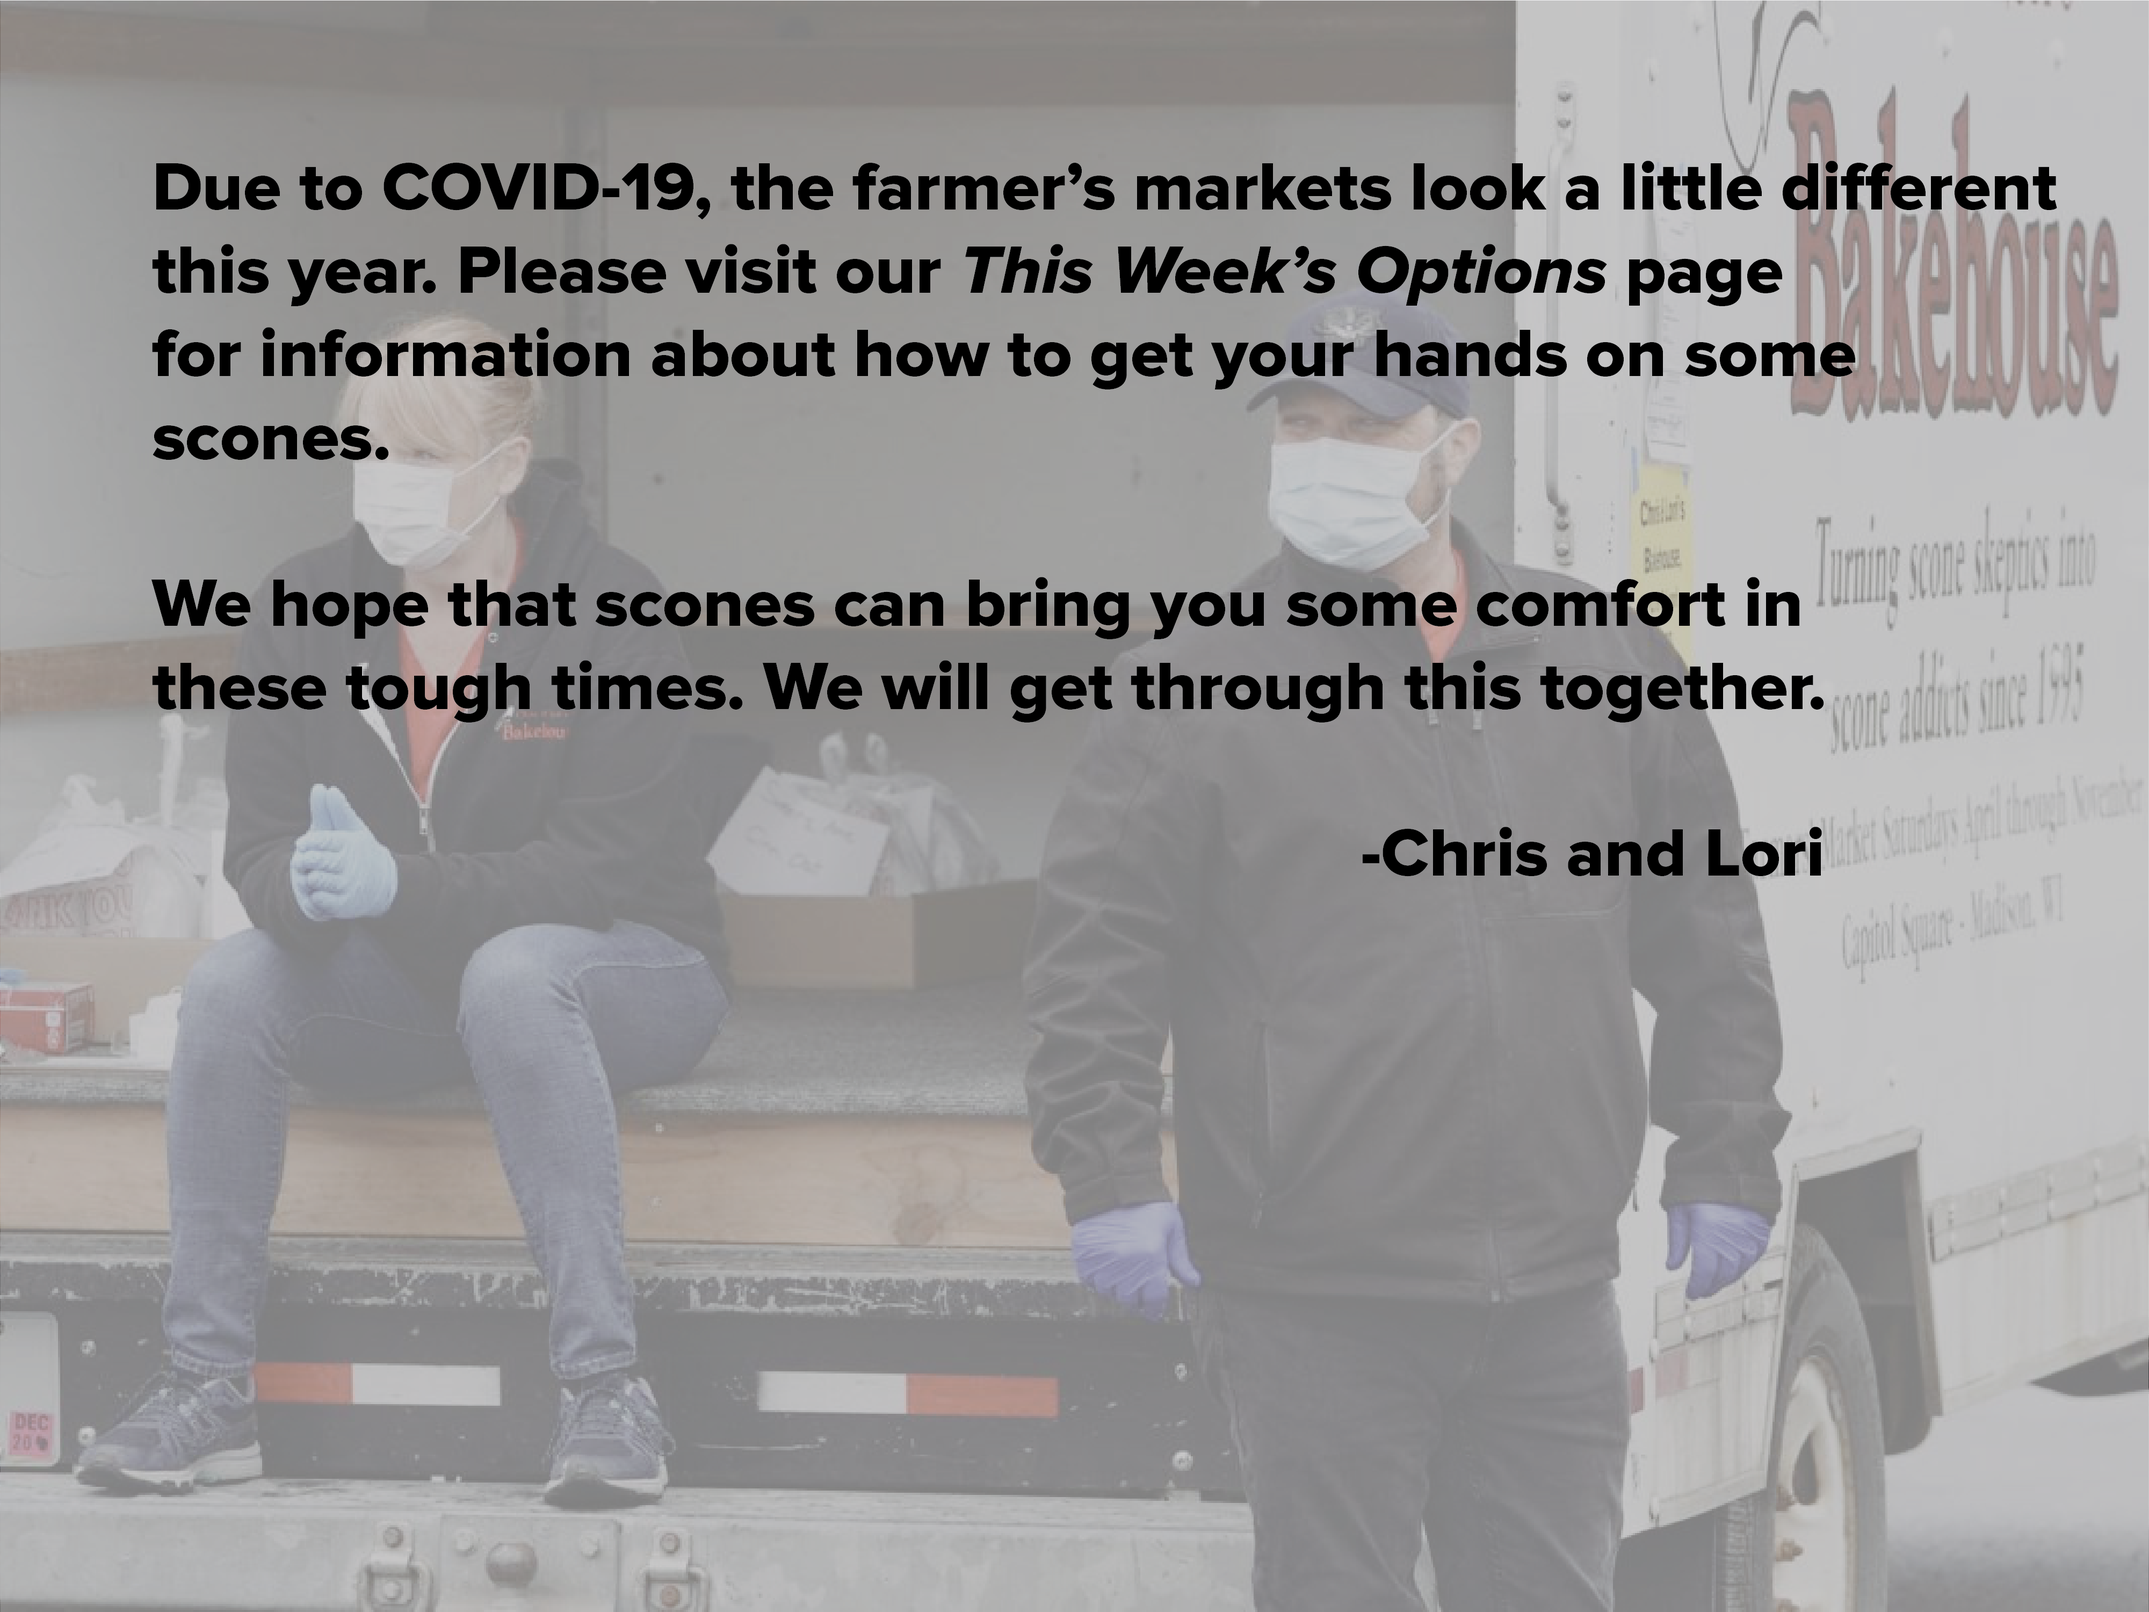
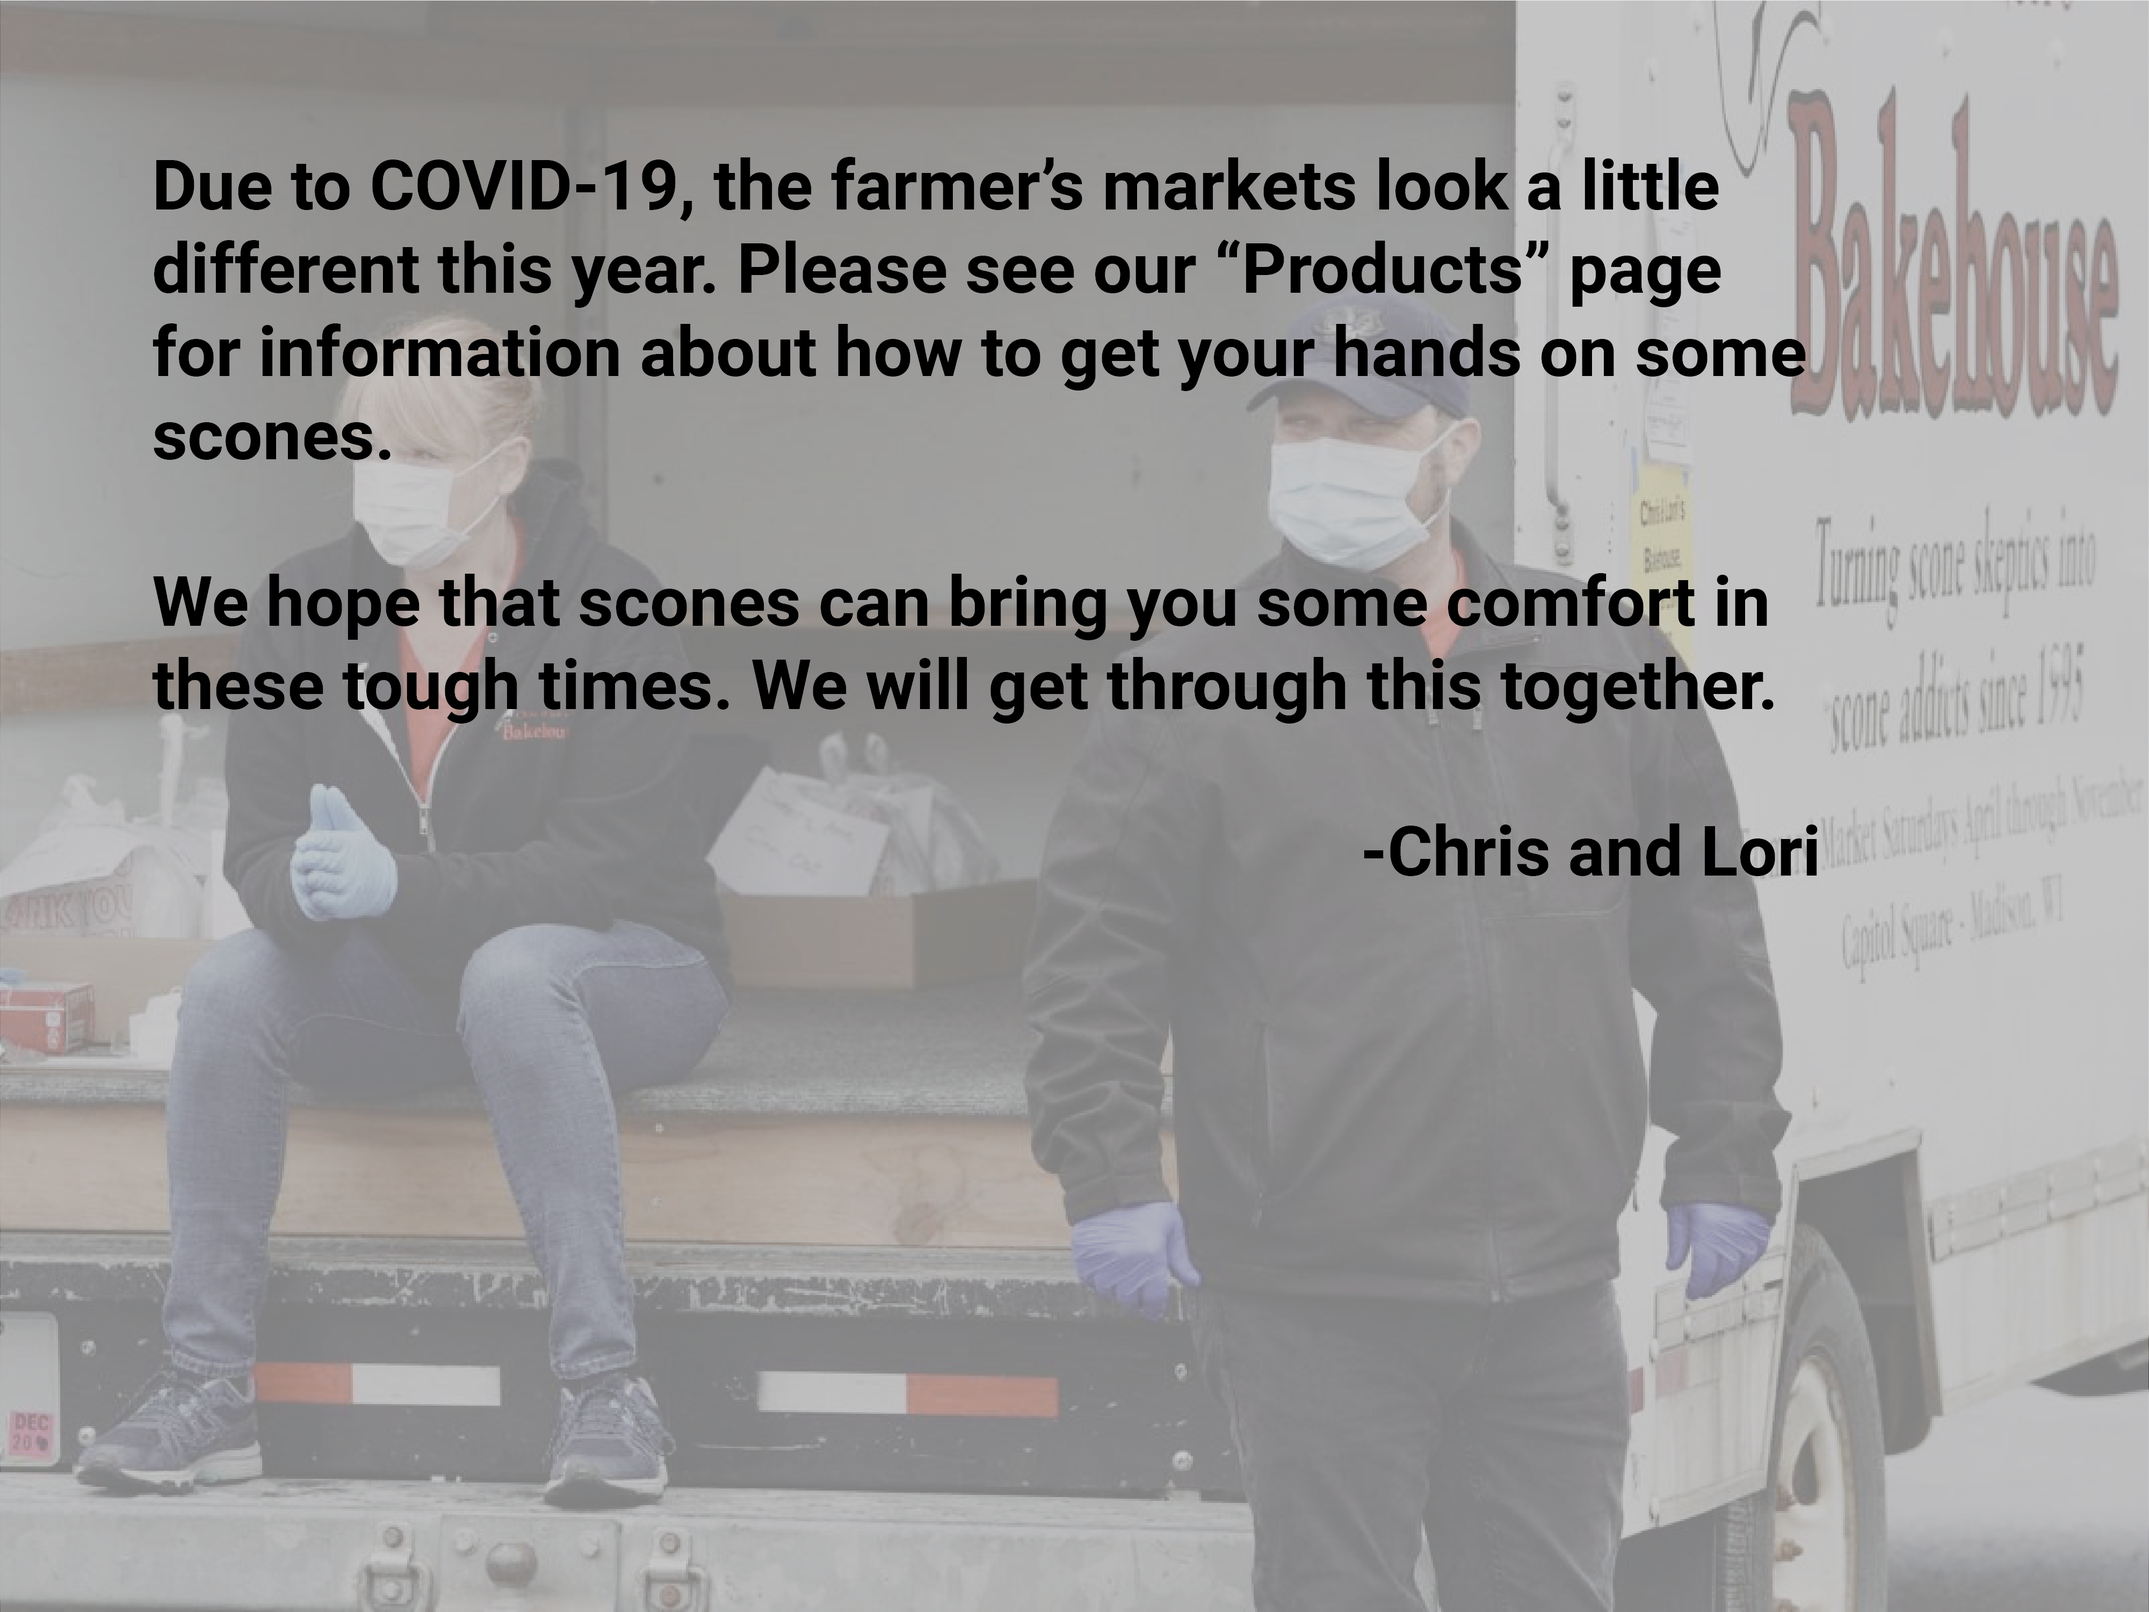
Remove "this week's options" page and switch all info to "Products" page

diff --git a/products.html b/products.html
@@ -3,9 +3,15 @@
   <head>
     <meta charset="utf-8">
     <meta name="viewport" content="width=device-width, initial-scale=1, shrink-to-fit=no">
-    <meta name="description" content="">
+    <meta name="description" content="Offering comfort in the form of scones and cookies.">
     <meta name="author" content="">
-    <link rel="icon" href="./assets/icon/hat.png">
+    <meta property="og:title" content="Chris & Lori's Bakehouse: Products">
+    <meta property="og:image" content="../assets/img/semicranberry.jpg">
+    <meta property="image" content="../assets/img/semicranberry.jpg">
+    <meta property="og:description" content="Offering comfort in the form of scones and cookies.">
+<!--     <meta property="og:url" content="https://example.com/page.html"> -->
+    <meta name="twitter:card" content="../assets/img/semicranberry.jpg">
+    <link rel="icon" href="../assets/img/semicranberry.jpg">
     <title>Chris & Lori's Bakehouse</title>
     <link rel="stylesheet" href="https://maxcdn.bootstrapcdn.com/bootstrap/4.0.0-alpha.6/css/bootstrap.min.css" integrity="sha384-rwoIResjU2yc3z8GV/NPeZWAv56rSmLldC3R/AZzGRnGxQQKnKkoFVhFQhNUwEyJ" crossorigin="anonymous">
     <link href="https://fonts.googleapis.com/css?family=Architects+Daughter|Caveat|Kalam:300|Quicksand|Permanent+Marker" rel="stylesheet">
@@ -18,6 +24,87 @@
 
 <style>
 * {box-sizing: border-box;}
+
+
+table { 
+  width: 100%; 
+  border-collapse: collapse; 
+  color: #781e27;
+  font-family:  'Quicksand', sans-serif;
+  font-size: 1.5rem;
+  padding: 10px;
+  margin: 10px;
+}
+/* Zebra striping */
+tr:nth-of-type(odd) { 
+  background: #dadfe0; 
+}
+th { 
+  background: #69181f; 
+  color: white; 
+/*  font-weight: bold;*/
+/*  font-family: 'Permanent Marker', sans-serif;*/
+}
+td, th { 
+  padding: 6px; 
+  border: 1px solid #ccc; 
+  text-align: left; 
+}
+/* 
+Max width before this PARTICULAR table gets nasty
+This query will take effect for any screen smaller than 760px
+and also iPads specifically.
+*/
+@media 
+only screen and (max-width: 760px),
+(min-device-width: 768px) and (max-device-width: 1024px)  {
+
+  /* Force table to not be like tables anymore */
+  table, thead, tbody, th, td, tr { 
+    display: block; 
+  }
+  
+  /* Hide table headers (but not display: none;, for accessibility) */
+  thead tr { 
+    position: absolute;
+    top: -9999px;
+    left: -9999px;
+  }
+  
+  tr { border: 1px solid #ccc; }
+  
+  td { 
+    /* Behave  like a "row" */
+    border: none;
+    border-bottom: 3px solid #eee; 
+    position: relative;
+    padding-left: 50%; 
+  }
+  
+  td:before { 
+    /* Now like a table header */
+    position: absolute;
+    /* Top/left values mimic padding */
+    top: -2px;
+    left: 4px;
+    width: 45%; 
+    padding-right: 10px; 
+    white-space: nowrap;
+    font-family: 'Permanent Marker', sans-serif;
+  }
+  
+  /*
+  Label the data
+  */
+  td:nth-of-type(1):before { content: "Where"; }
+  td:nth-of-type(2):before { content: "When"; }
+  td:nth-of-type(3):before { content: "How to Order"; }
+  td:nth-of-type(4):before { content: "Ordering Window"; }
+  .table2  td:nth-of-type(1):before { content: "Order"; }
+  .table2 td:nth-of-type(2):before { content: "Price"; }
+}
+
+
 
 .container {
   position: relative;
@@ -81,6 +168,26 @@ p {
 font-size: 1em;
 }
 
+.details {
+  background-color: lightgrey;
+  left: 100px;
+  padding: 3%;
+  margin-left: 8%;
+  margin-right: 8%;
+}
+
+p {
+font-size: 1.4rem;
+margin: 2%;
+
+}
+
+table, th, td {
+  border: 1px solid black;
+  padding: 15px;
+
+
+
 </style>
 
     <nav class="navbar navbar-toggleable-md bg-light"> <!-- Create the navbar -->
@@ -96,9 +203,6 @@ font-size: 1em;
           <ul class="navbar-nav mr-auto">
             <li class="nav-item active">
               <a class="nav-link active" href="index.html">Home</a>
-            </li>
-            <li class="nav-item active">
-              <a class="nav-link active this-week" href="this-week.html">This Week's Options</a>
             </li>
 <!--           <li class="nav-item dropdown">
             <a class="nav-link dropdown-toggle" href="http://example.com" id="dropdown01" data-toggle="dropdown" aria-haspopup="true" aria-expanded="false">Farmer's Markets</a>
@@ -122,13 +226,114 @@ font-size: 1em;
   </head>
   <body>
 
-<h1 class = "pagetitle" align="center">Products</h1>
+<div style="background-color:#dadfe0;padding:1%">
+  <h1 class = "pagetitle" align="center">Products</h1>
+  <h1 style = "font-size:1em;color:grey;font-weight:bold" align="center">Offering comfort in the form of scones and cookies.</h1>
+</div>
 <!-- START HEALTHY SCHMEALTHY ROW 1 -->
 <div class = "container">
 
-<h3> Some of these products are seasonal and are not available at all times. For information about which products are available for ordering and pick-up during the COVID-19 pandemic, please refer to our <a href="covid-19.html">COVID-19</a> page. Please direct any questions to <a href="mailto:CLBakehouse@gmail.com" target="_top">CLBakehouse@gmail.com</a>. </br>
-</h3>
+<h3>Starting on August 1, we will be producing all of our in-season products, still in dozens and half dozens for preorders. There is also a new walk-up market at the Alliant Energy Center from 9:30am-1pm on Saturdays.</h3>
 
+
+<h3 style="font-size:1.5em"><strong>Ordering Options</strong></h3>
+<table>
+  <thead>
+  <tr>
+    <th>Where</th>
+    <th>When to Pick Up</th>
+    <th>How to Order</th>
+    <th>Preorder Deadline</th>
+  </tr>
+  <tbody>
+<!--   <tr>
+    <td>CrossFit DeForest</td>
+    <td>Friday, July 3, 3-4pm</td>
+    <td>Email <a href="mailto:CLBakehouse@gmail.com" target="_top">CLBakehouse@gmail.com</a></td>
+    <td>Sun, June 28 at 10am to Thurs, July 2 at 12pm</td>
+  </tr> -->
+  <tr>
+    <td><a href="https://www.westsidecommunitymarket.org/">Westside Community Market</a>*</td>
+    <td>Saturday, August 1, 7am-12:30pm</td>
+    <td>Email <a href="mailto:CLBakehouse@gmail.com" target="_top">CLBakehouse@gmail.com</a></td>
+    <td rowspan="3">Thurs, July 30 at 12pm</td>
+  </tr>
+  <tr>
+    <td><a href="https://dcfm.org/fresh/dane-county-farmers-market-opens-local-food-pick-ups-at-alliant-energy-center-starting-april-22nd?fbclid=IwAR20yVgTEYa3MJhZqAYnfEJrAR6iu972J0a11XpBByEseLydTY23Pdc40aU">Alliant Energy Center Drive-Thru Pickup</a></td>
+    <td>Saturday, August 1, 7am-9am</td>
+    <td>WhatsGood Marketplace <br><a href="https://sourcewhatsgood.com/">sourcewhatsgood.com</a> or in person during the market</td>
+  </tr>
+  <tr>
+    <td>Mail order</td>
+    <td>N/A</td>
+    <td>Email <a href="mailto:CLBakehouse@gmail.com" target="_top">CLBakehouse@gmail.com</a></td>
+  </tr>
+  <tr>
+    <td><a href="https://madison.com/wsj/news/local/capitol-square-wont-host-farmers-market-this-season-but-walk-ups-coming-to-alliant/article_495be21e-636b-5911-86b9-f40e747bf8f6.html">NEW Alliant Energy Center Walk-Up Market</a>*</td>
+    <td>Saturday, August 1, 9:30am-1pm</td>
+    <td>In person, 7am-9am</td>
+    <td>N/A</td>
+  </tr>
+</tbody>
+</table>
+
+<h3>*Ordering individual scones will be available.</h3>
+
+<h3 style="font-size:1.5em"><strong>Pricing</strong></h3>
+<table class = "table2">
+  <thead>
+  <tr>
+    <th>Order</th>
+    <th>Price</th>
+  </tr>
+  </thead>
+  <tbody>
+  <tr>
+    <td>Flower & Cow Cookie Bundle</td>
+    <td>$18</td>
+  </tr>
+  <tr>
+    <td>6 scones (all one flavor)</td>
+    <td>$18</td>
+  </tr>
+  <tr>
+    <td>12 scones (all one flavor)</td>
+    <td>$30</td>
+  </tr>
+  <tr>
+    <td>Mail order (12 scones)</td>
+    <td>$50 (includes shipping)</td>
+  </tr>
+  </tbody>
+</table>
+
+<h3 style="font-size:1.5em"><strong>Products</strong></h3>
+<h3> Some of these products are seasonal and are not available at all times.</h3>
+
+
+<div class = "container">
+
+<div class="container scone col-md-4">
+  <img src="../assets/img/flowers_and_cows.png" alt="Flower & Cow Cookie Bundle" class="image">
+  <h3 class="productnames">Flower & Cow Cookie Bundle</h3>
+  <p class = "ingredients"><b>Ingredients:</b>  white flour, sugar, butter, margarine, egg, vanilla, and baking soda.</p>
+</div>
+
+<div class="container scone col-md-4">
+  <img src="../assets/img/sconut.jpg" alt="Sconuts" class="image">
+  <h3 class="productnames">Chocolate Chip Sconuts</h3>
+  <p class = "ingredients"><b>Ingredients:</b> white flour, chocolate chips, butter, brown sugar, egg, water, vanilla, baking powder, almond extract, and salt. </p>
+</div>
+
+<div class="container scone col-md-4">
+  <img src="../assets/img/whitechocrasp.jpg" alt="White Chocolate Raspberry" class="image">
+    <h3 class="productnames">White Chocolate Raspberry Scones</h3>
+  <p class = "ingredients"><b>Ingredients:</b> white flour, white chocolate chunks, raspberries, butter*, water, eggs, granulated sugar, water, baking powder, almond extract, and salt.
+  <b>Glaze:</b> water, corn syrup, and powdered sugar. </p>
+<p>*no trans fats</p>
+</div>
+
+</div>
 
   <h2 class="category"  align="center">Healthy Schmealthy</h2>
 
@@ -141,7 +346,7 @@ font-size: 1em;
 
 <div class="container scone col-md-4">
   <img src="../assets/img/fallleaves.jpg" alt="Fall Leaf Cookies" class="image">
-    <h3 class="productnames">Fall Leaf Cookies</h3>
+    <h3 class="productnames">Fall Leaf Cookies (SEASONAL)</h3>
   <p class = "ingredients"><b>Ingredients:</b> white flour, sugar, butter, margarine, egg, vanilla, and baking soda. </p>
 </div>
 
@@ -226,7 +431,7 @@ font-size: 1em;
 
 <div class="container scone col-md-4">
   <img src="../assets/img/pumpkinmuffins.jpg" alt="Pumpkin Muffins" class="image">
-  <h3 class="productnames">Pumpkin Cream Cheese Muffins</h3>
+  <h3 class="productnames">Pumpkin Cream Cheese Muffins (SEASONAL)</h3>
   <p class = "ingredients"><b> Ingredients:</b> sugar, white flour, oil, pumpkin, cream cheese, baking powder, ground cinnamon, baking soda, and salt. </p>
 </div>
 
@@ -265,7 +470,7 @@ font-size: 1em;
 
 <div class="container scone col-md-4">
   <img src="../assets/img/rhubarb.png" alt="Rhubarb" class="image">
-  <h3 class="productnames">Rhubarb Oat Scones</h3>
+  <h3 class="productnames">Rhubarb Oat Scones (SEASONAL)</h3>
    <p class = "ingredients"><b>Ingredients:</b> white flour, rhubarb, oats, butter*, water, brown sugar, baking powder, and salt.
   <b><b>Glaze:</b></b> water, corn syrup, powdered sugar
 </br> </p>
@@ -336,7 +541,7 @@ font-size: 1em;
 
   <div class="container scone col-md-4">
 	  <img src="../assets/img/wgpumpkin.jpg" alt="WG Pumpkin" class="image">
-	  <h3 class="productnames">Whole Grain Pumpkin Scones</h3>
+	  <h3 class="productnames">Whole Grain Pumpkin Scones (SEASONAL)</h3>
 	  <p class = "ingredients">Ingredients: whole wheat flour, pumpkin, oats, butter*, water, raw honey, baking powder, pumpkin spice, salt, and cinnamon.
 	<p>*no trans fats</p>
 </div>
@@ -425,7 +630,7 @@ font-size: 1em;
 
 <div class="container scone col-md-4">
   <img src="../assets/img/gfpumpkin.jpg" alt="GF Pumpkin" class="image">
-  <h3 class = "productnames">Gluten Free Vegan Pumpkin Scones</h3>
+  <h3 class = "productnames">Gluten Free Vegan Pumpkin Scones (SEASONAL)</h3>
   <p class = "ingredients"><b>Ingredients:</b>  Gluten free flour blend (brown rice, rice starch, sorghum, buckwheat, millet, potato starch, flaxseed meal, xanthan gum, locust bean gum, whole quinoa), pumpkin purée, coconut oil, brown sugar, baking powder, pumpkin spice blend, and salt. 
 </p>
 </br>
@@ -474,6 +679,11 @@ font-size: 1em;
   <p>gluten free, sugar free, keto, low carb</p>
 </div>
 </div>
+
+<br>
+<br>
+<br>
+<br>
 
 </body>
 

diff --git a/index.html b/index.html
@@ -23,6 +23,8 @@
 
 <style>
 
+
+
 .boxdeal {
     color: white;
     font-family: Quicksand, sans-serif;
@@ -75,9 +77,6 @@
           <ul class="navbar-nav mr-auto">
             <li class="nav-item active">
               <a class="nav-link active" href="index.html">Home</a>
-            </li>
-            <li class="nav-item active">
-              <a class="nav-link active this-week" href="this-week.html">This Week's Options</a>
             </li>
 <!--           <li class="nav-item dropdown">
             <a class="nav-link dropdown-toggle" href="http://example.com" id="dropdown01" data-toggle="dropdown" aria-haspopup="true" aria-expanded="false">Farmer's Markets</a>

diff --git a/about.html b/about.html
@@ -94,9 +94,6 @@ margin: 2%;
             <li class="nav-item active">
               <a class="nav-link active" href="index.html">Home</a>
             </li>
-            <li class="nav-item active">
-              <a class="nav-link active this-week" href="this-week.html">This Week's Options</a>
-            </li>
 <!--           <li class="nav-item dropdown">
             <a class="nav-link dropdown-toggle" href="http://example.com" id="dropdown01" data-toggle="dropdown" aria-haspopup="true" aria-expanded="false">Farmer's Markets</a>
             <div class="dropdown-menu" aria-labelledby="dropdown01">

diff --git a/contact.html b/contact.html
@@ -98,9 +98,6 @@ margin: 2%;
             <li class="nav-item active">
               <a class="nav-link active" href="index.html">Home</a>
             </li>
-            <li class="nav-item active">
-              <a class="nav-link active this-week" href="this-week.html">This Week's Options</a>
-            </li>
 <!--           <li class="nav-item dropdown">
             <a class="nav-link dropdown-toggle" href="http://example.com" id="dropdown01" data-toggle="dropdown" aria-haspopup="true" aria-expanded="false">Farmer's Markets</a>
             <div class="dropdown-menu" aria-labelledby="dropdown01">

diff --git a/css/style.css b/css/style.css
@@ -1,9 +1,4 @@
 
-/*covid temporary style*/
-.this-week {
-  background-color:#c90a1d;
-  border-radius: 10px;
-}
 
 
 
